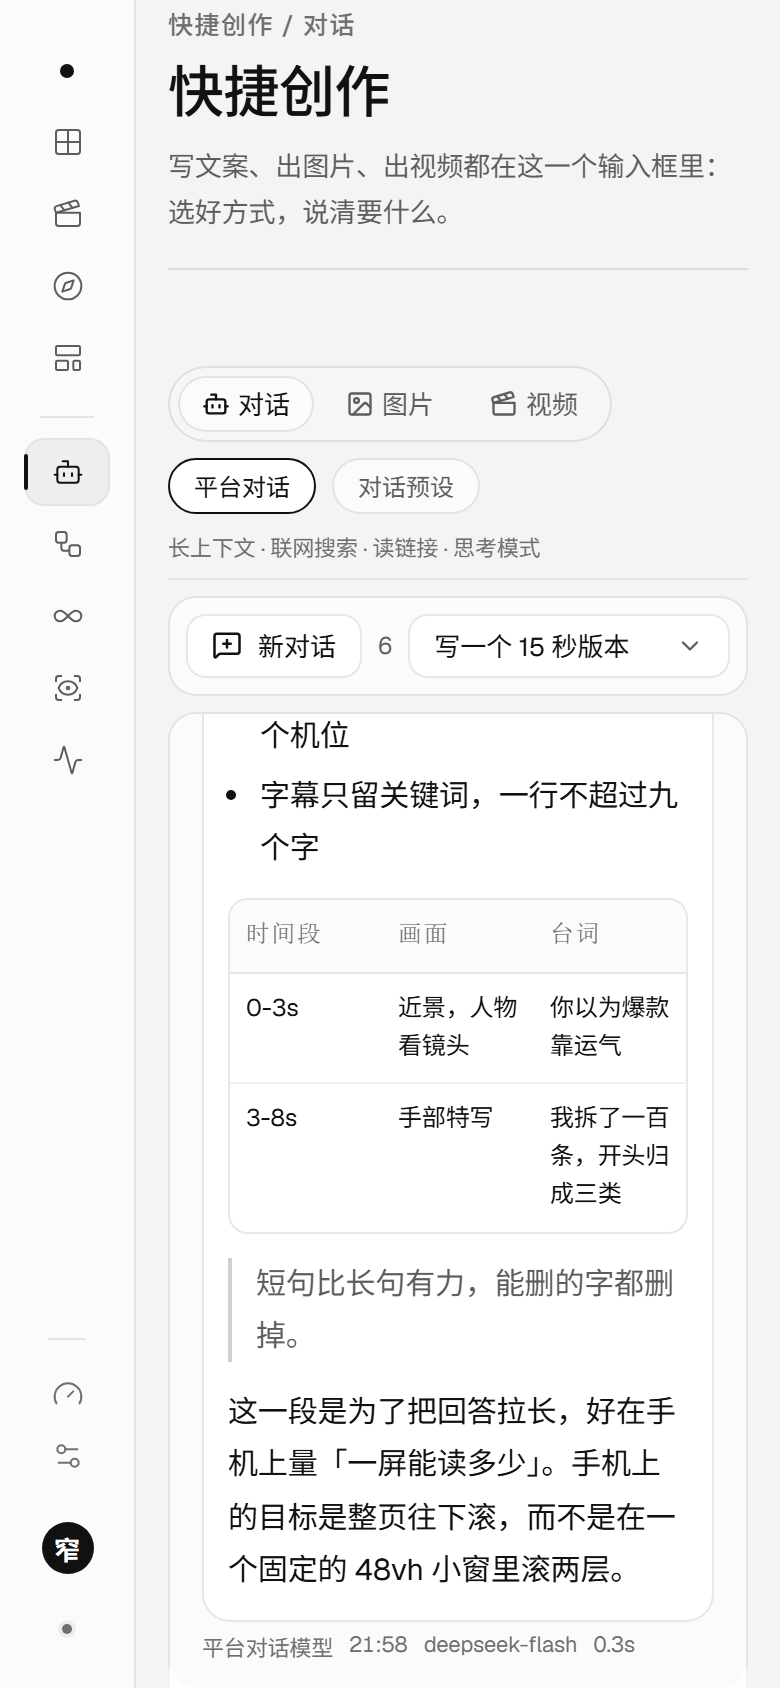
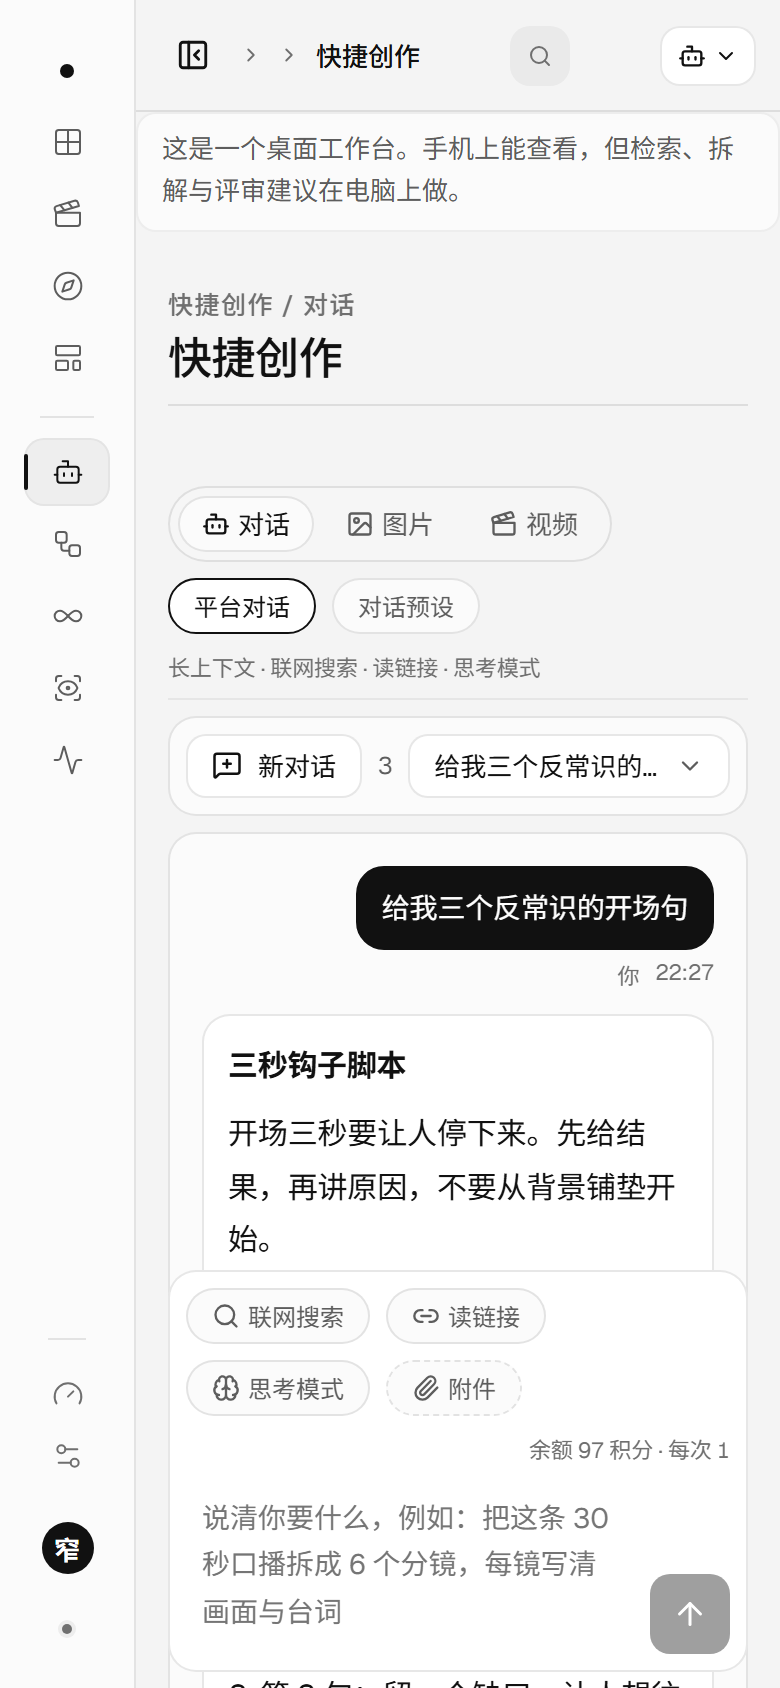
feat(r222): 手机快捷创作改整页滚+输入框贴底，版头与输入框收一档（0.9.206）

diff --git a/src/styles/agents.css b/src/styles/agents.css
@@ -2876,6 +2876,10 @@
 }
 
 @media (max-width: 560px) {
+  /* 输入框现在常驻贴底，它占的高度就是一直看得见的高度：手机上收一收（r222）。
+     Ctrl+Enter 在手机上没意义，附件上限挂在附件按钮的 title 里；两行提示留着白占 34px。 */
+  .qc-hint { display: none; }
+  .qc-input { min-height: 56px; resize: none; }
   .qc-chip-name, .qc-file-name, .qc-link-name { max-width: 128px; }
   /* 表格在窄屏不横着拖：表头允许换行、字号降一档，宁可排两行，
      也别把「目的」那一列藏在滚动条后面 */
@@ -2888,6 +2892,20 @@
 }
 
 
+
+/* 手机（≤560）：聊天页的版头不必占掉四分之一屏（r222）。
+   标题缩一档、说明收进空状态（空状态里已经把用法写全）、上下留白收紧；
+   只动这一页的页头，不改全局 .vq-head 的尺度。 */
+@media (max-width: 560px) {
+  .agx-page .vq-head {
+    margin-bottom: 16px;
+    padding-bottom: 8px;
+    gap: 8px;
+  }
+  .agx-page .vq-head-kicker { margin-bottom: 4px; }
+  .agx-page .vq-head-title { font-size: 22px; line-height: 1.3; }
+  .agx-page .vq-head-desc { display: none; }
+}
 
 /* 窄屏（平板竖屏到手机）：会话列表收成一条可展开的窄条（r221）。
    原来这里把列表压成 200px、回答区留 48vh，手机上等于「列表比回答还占地方」——
@@ -2903,11 +2921,13 @@
   .qc-side.is-open .qc-list { display: flex; max-height: 40vh; }
   /* 提醒「会话存在服务端」这段在手机上不占位置：条数就在旁边 */
   .qc-side-note { display: none; }
-  /* 回答区从 48vh 提到 58vh：列表让出来的高度给回答，输入框仍然一屏内看得见。
-     这里没改成「整页滚 + 输入框贴底」——实测本页真正的滚动容器是文档本身，
-     .vq-content 虽然写了 overflow:auto 却从不滚动，sticky 贴不住底，所以不做。
-     回答区自己滚也更适合边生成边看：新字进来只滚它，页面不跟着跳。 */
-  .qc-thread { max-height: 58vh; min-height: 280px; }
+  /* 回答区跟着页面走：窄屏整页滚，输入框 sticky 贴在屏幕底部（r222）。
+     前提是 shell 在 ≤900 把 .vq-content 的 overflow 放开——overflow:auto 就算不滚，
+     也会成为 sticky 的参照容器，按钮就贴不住底（r221 实测）。 */
+  .qc-thread { max-height: none; min-height: 320px; }
+  .qc-composer { position: sticky; bottom: 8px; z-index: 3; }
+  /* 滚到末尾时给贴底输入框留出位置：不留的话最后一段回答会被输入框挡住 */
+  .qc-bottom { scroll-margin-bottom: 272px; }
   .qc-msg { max-width: 100%; }
 }
 

diff --git a/src/styles/shell.css b/src/styles/shell.css
@@ -2330,6 +2330,14 @@ select:focus-visible {
     overflow: visible;
   }
 
+  /* 窄屏是文档级滚动，.vq-content 自己也就不该再当滚动容器（r222）。
+     overflow:auto 的元素即使从不滚动，也会成为 position:sticky 的参照——
+     快捷创作的输入框要贴屏幕底，就必须把这一层的 overflow 放开。
+     真会横向撑开的东西（表格、代码块）各自有 overflow 容器，不受影响。 */
+  .vq-content {
+    overflow: visible;
+  }
+
   .vq-sidebar {
     position: sticky;
     top: 0;

diff --git a/src/components/QuickChat.tsx b/src/components/QuickChat.tsx
@@ -409,7 +409,7 @@ export default function QuickChat({ onToast }: { onToast?: (text: string) => voi
               )}
             </div>
           )}
-          <div ref={bottomRef} />
+          <div ref={bottomRef} className="qc-bottom" />
         </div>
 
         {error && <div className="qc-error" role="alert">{error}</div>}

diff --git a/docs/quick-chat-mobile-scroll-2026-11-18.md b/docs/quick-chat-mobile-scroll-2026-11-18.md
@@ -1,0 +1,67 @@
+# 快捷创作：手机上整页滚，输入框贴在屏幕底部（r222 / v0.9.206）
+
+日期：2026-11-18
+
+## 问题
+
+r221 把会话列表收成一条之后，回答区从 48vh 提到 58vh，但手机上**输入框还在回答区下方**：
+页面头部（标题 + 方式页签 + 对话方式）本身约 300px，844 高的屏要看到输入框得往下滚，滚下去又看不到回答。
+用户的原话是「至少让我看得清楚字是啥」——打字这件最基本的事不该要滚。
+
+## 改法
+
+| 项 | 改前 | 改后 |
+| --- | --- | --- |
+| 谁在滚 | 回答区自己滚（58vh 小窗） | **整页滚**（文档级） |
+| 输入框 | 在回答区下方，走出屏幕 | **sticky 贴屏幕底部**（bottom 8px），一直可见 |
+| 回答区高度 | 上限 58vh | 不限高，读到哪算哪 |
+| 滚到底 | — | 底部留 272px `scroll-margin`，最后一段不会被输入框挡住 |
+| 手机版头 | 标题 + 说明两行 | 标题 22px、说明收进空状态（只在 ≤560 生效） |
+| 输入框本身 | 241px 高（含 Ctrl+Enter 提示） | **201px**：手机上藏掉 Ctrl+Enter 那行、文本域 56px、去掉拖拽手柄 |
+
+### 关键是先放开 `.vq-content` 的 overflow
+
+sticky 贴不住底的原因不在按钮，在祖先：`.vq-content` 写了 `overflow: auto`。按 CSS 规则，
+**只要祖先有滚动框，哪怕它从不滚动，也会成为 sticky 的参照**——它的滚动位置永远是 0，
+所以按钮跟着内容一起走（r221 实测：文档滚到 620px 时，按钮 top=899，已在屏幕外）。
+
+窄屏（≤900）本来就是文档级滚动（shell 在那一档设了 `height: auto; overflow: visible`），
+于是这一档把 `.vq-content` 的 `overflow` 也放开成 `visible`：参照回到视口，按钮才贴得住。
+真会横向撑开的容器（表格、代码块、后台表格）各自有自己的 `overflow`，不受影响——
+这条改动在 390 / 320 两档、9 个页面上逐页量过，页面级横向滚动一处都没有（见下）。
+
+## 验收（本机临时实例 + 假上游 + 无头 Edge，0 次真实上游调用、0 元）
+
+3 条会话，回答含标题/列表/表格/引用，390×844 实测：
+
+| 位置 | 输入框 top / bottom | 在视口内 | 最后一段回答 bottom |
+| --- | --- | --- | --- |
+| 空状态（未选会话） | 595 / 836 | 是 | — |
+| 展开列表 | 595 / 836 | 是 | — |
+| 选完会话（自动滚到底） | 595 / 836 | 是 | 539（在输入框上方，没被挡） |
+| 滚到页面顶端 | 595 / 836 | 是 | 1511（在下方，继续往下读） |
+| 滚到中途 520px | 595 / 836 | 是 | 991 |
+
+- 回答区高度：**1144px**（改前固定在 490px），整页滚；`innerWidth = scrollWidth = 390`。
+- 输入框高度：**201px**（改前 241px）；`position: sticky`。
+- 滚到文档最底（2001px）时输入框不再贴底：那时看到的是页面下方的「对话预设」卡片库，
+  不在对话面板里——这是有意的，不是失效。
+- 横向溢出扫描：390 / 320 两档 × 9 个页面（工作台、爆款雷达、模板库、作品、快捷创作、工作流、运行记录、视觉评审、设置），
+  `document.documentElement.scrollWidth` 全部等于 `innerWidth`，页面级横向滚动 0 处。
+- 1440：输入框 `position: static`、回答区上限 56vh、版头与说明照旧、左栏 240px——桌面一点没动。
+
+截图（真实渲染）：
+
+- `docs/quick-mobile-390.png`：手机顶端——紧凑版头 + 会话条 + 提问与回答开头 + 贴底输入框。
+- `docs/quick-mobile-scroll-390.png`：往下滚 520px，回答从输入框后面滑过，输入框仍在原地。
+- `docs/quick-mobile-list-390.png`：展开「历史对话」。
+- `docs/quick-mobile-1440.png`：桌面没变（Ctrl+Enter 提示还在，手机上才藏）。
+
+## 边界
+
+- 手机上输入框常驻占 201px（约一屏 24%）：工具行（联网搜索/读链接/思考模式/附件）在 390 宽会折成两行，
+  再压就得把它们收进菜单，属于下一步的产品决定。
+- 平台对话时，页面下方仍然列着「对话预设」卡片库（既有结构）：页面因此很长，滚到卡片区时输入框自然松开。
+  要不要在平台对话时把卡片库收起来，等真的有人抱怨再定——那会动到「从对话直接切预设」的入口。
+- 展开状态不记忆；桌面仍是回答区自己滚（56vh），没有跟进 sticky。
+- 只改样式 + 一个空 div 的 class，没有新接口、没改服务端、没动计费。
